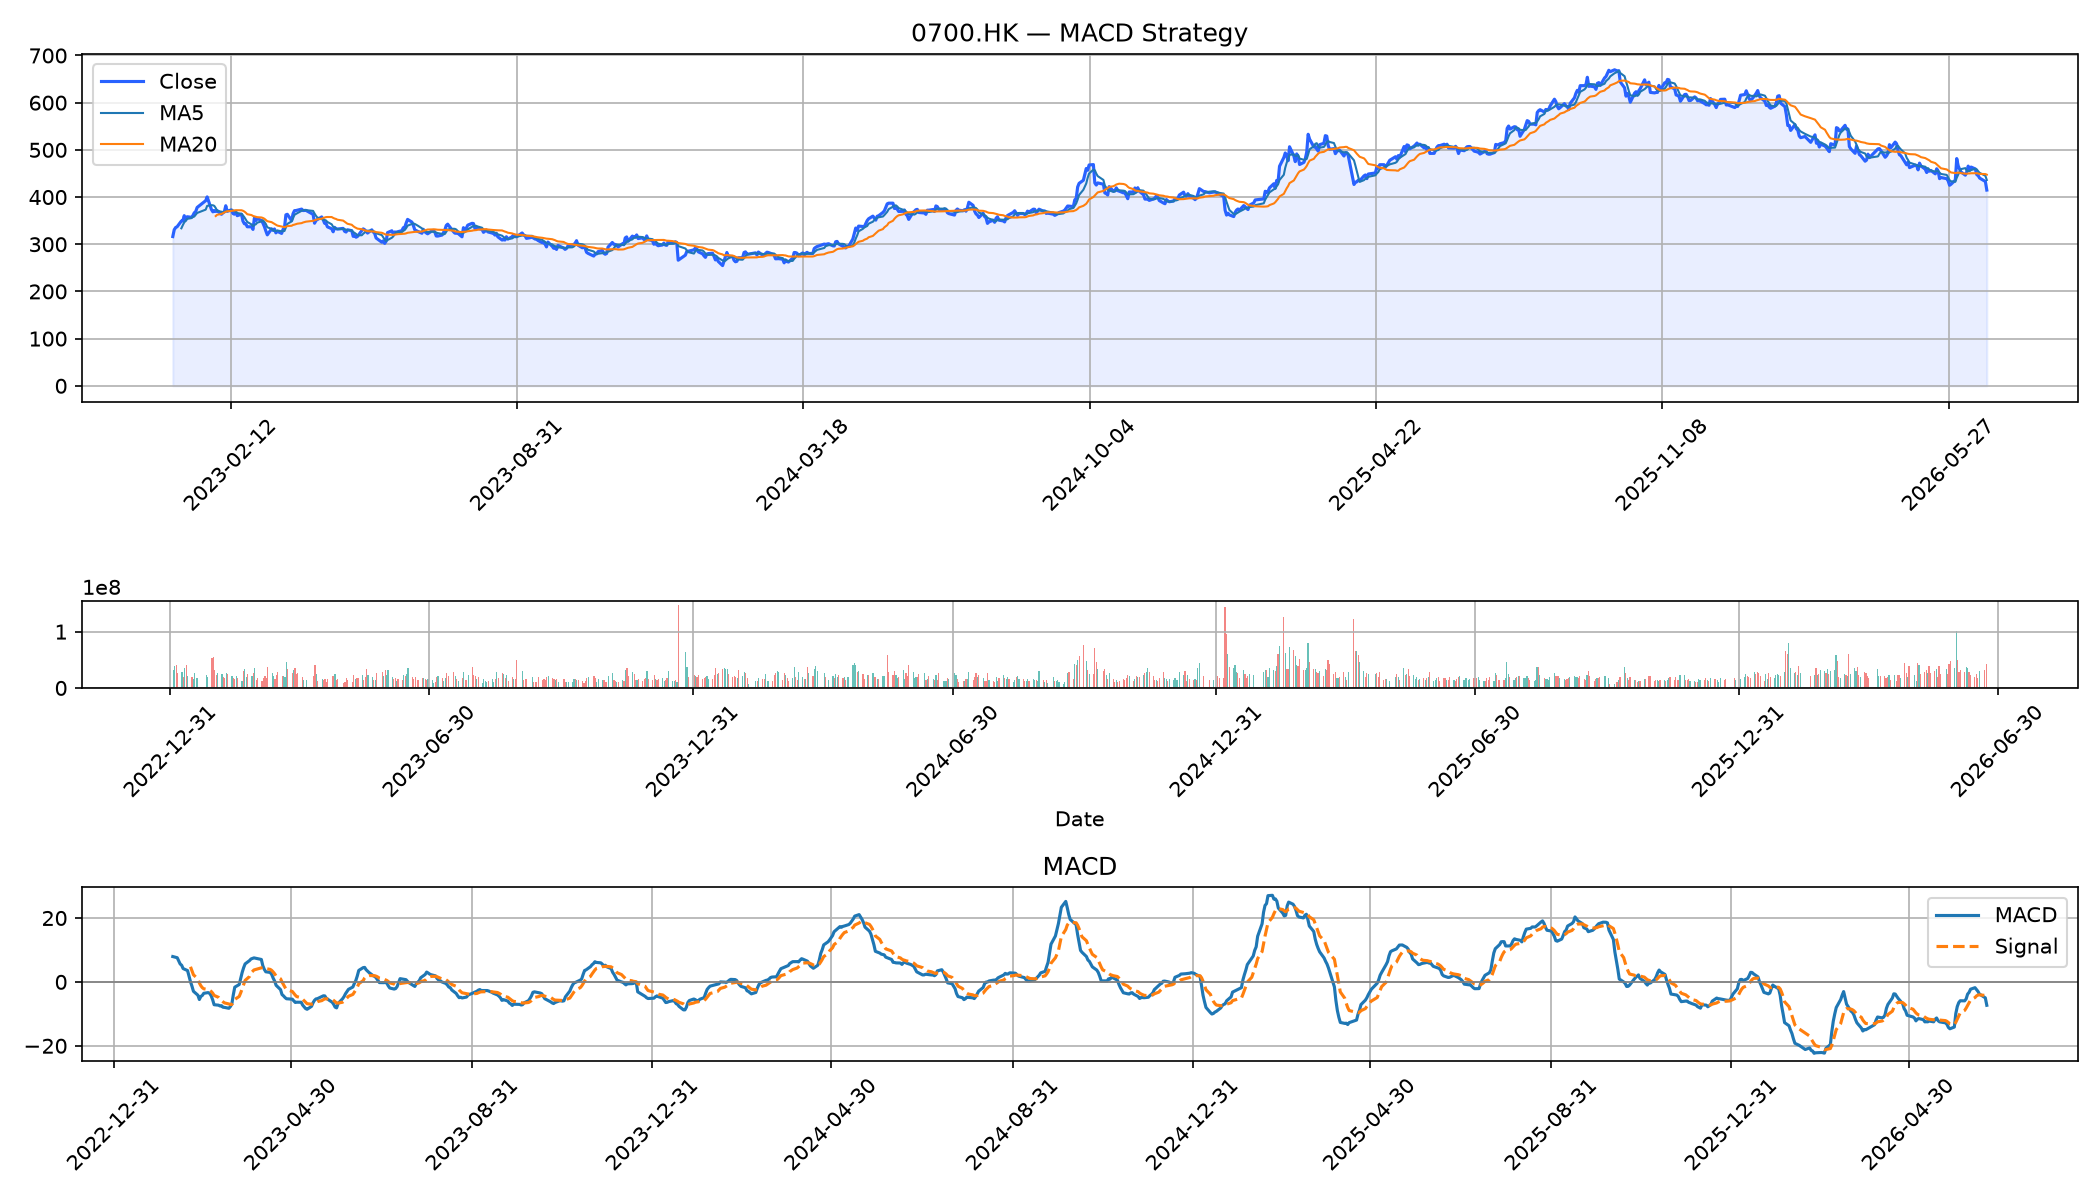
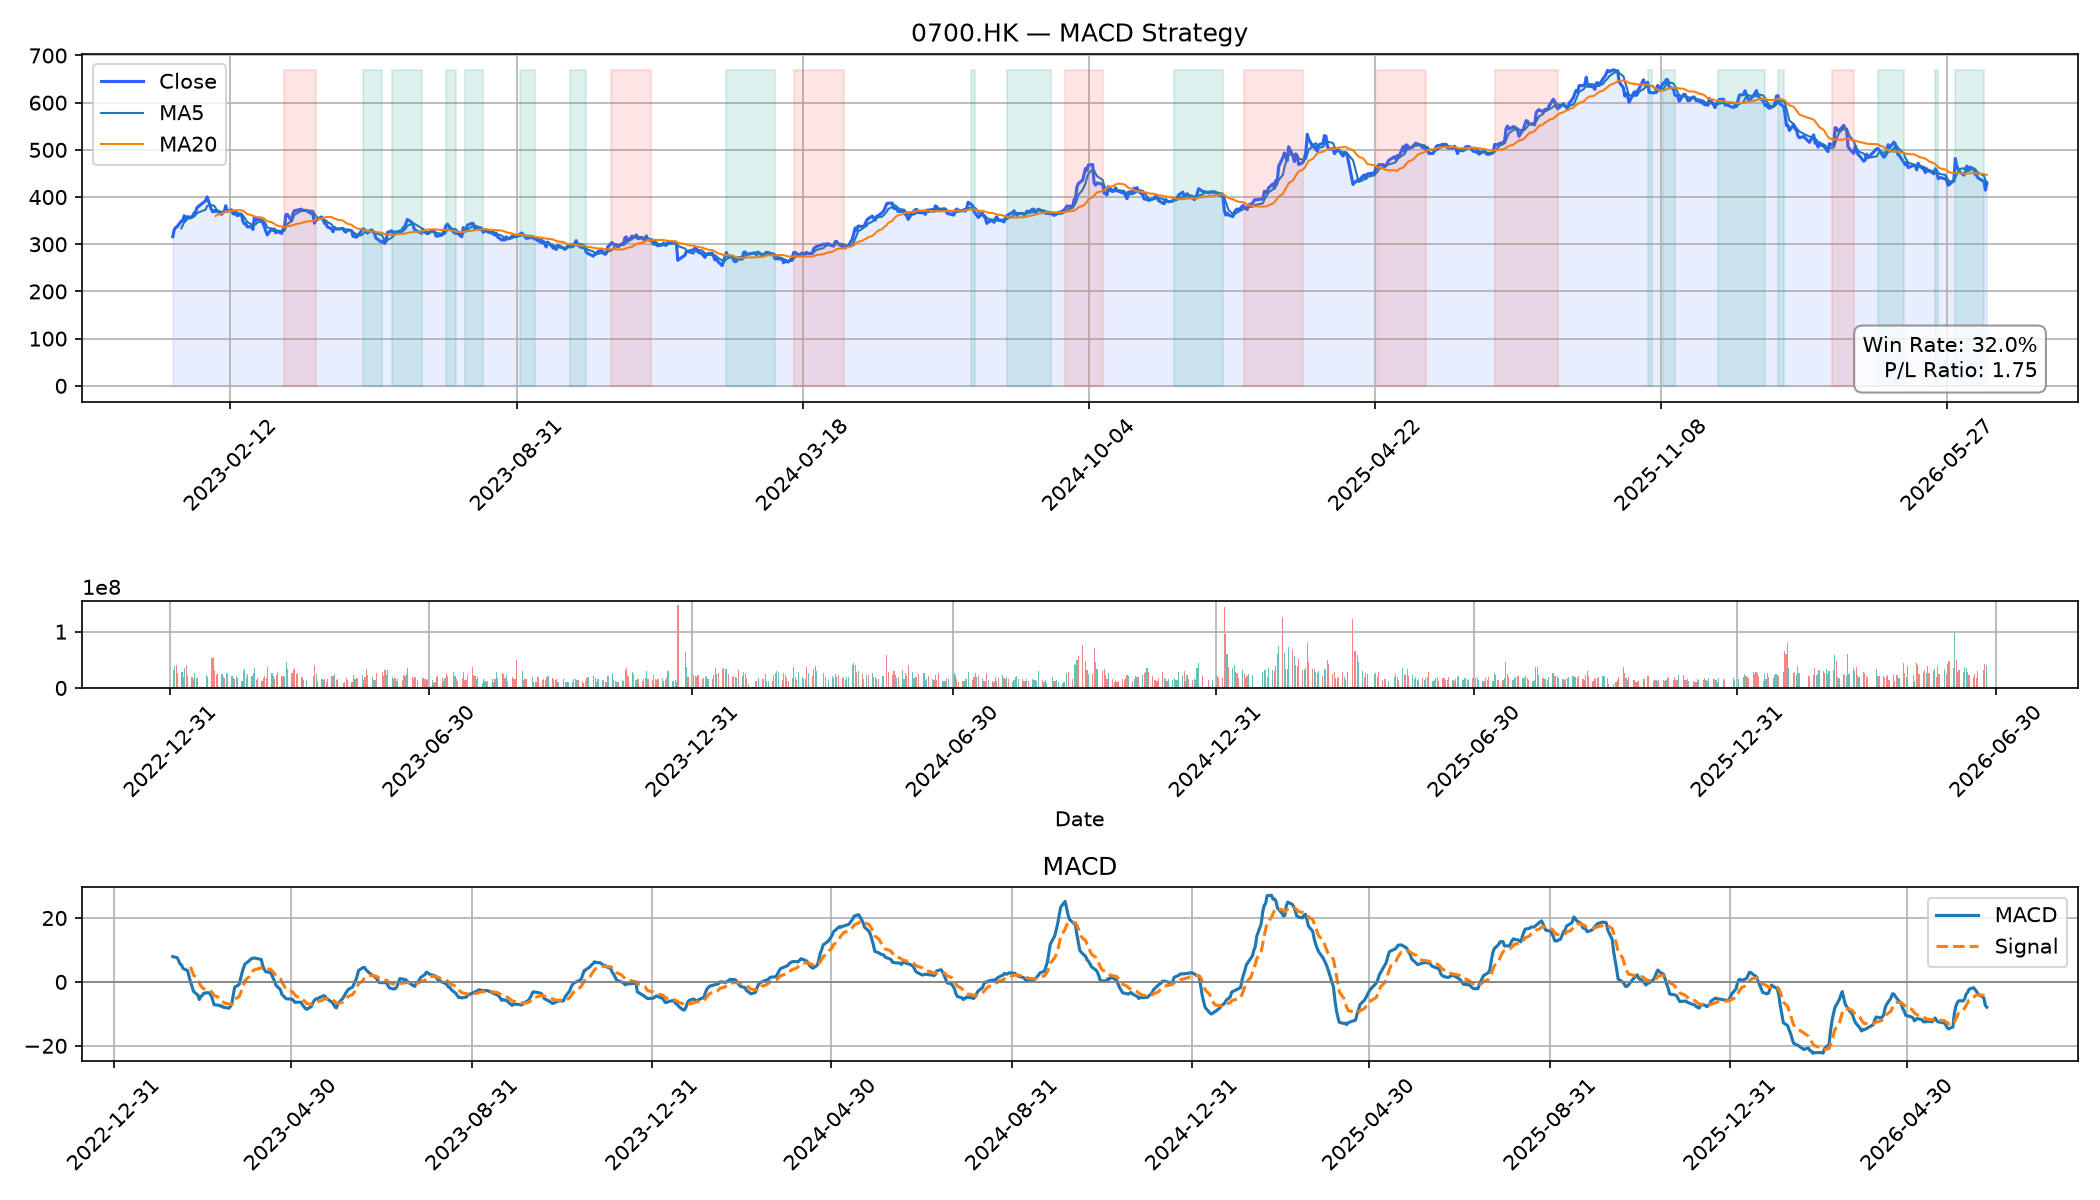
feat: 交易区间透明块改为全高，并标注胜率和盈亏比
- 修改 plotter.py: fill_between 从 y=0 到最高价，盈利红色/亏损绿色
- 在图表右下角添加 Win Rate 和 P/L Ratio 统计框
- 修改 base_strategy.py: completed_trades 增加 buy_price, sell_price
- 修改 engine.py: get_completed_trades 增加对应列

diff --git a/quantinvest/viz/plotter.py b/quantinvest/viz/plotter.py
@@ -3,6 +3,7 @@
 from __future__ import annotations
 
 from pathlib import Path
+from typing import Any
 
 import matplotlib
 matplotlib.use("Agg")  # Non-interactive backend
@@ -18,7 +19,7 @@ def _format_date(ax: plt.Axes) -> None:
     ax.tick_params(axis="x", rotation=45)
 
 
-def compute_indicators(df: pd.DataFrame, strategy: str = "macd", **kwargs) -> dict[str, pd.Series]:
+def compute_indicators(df: pd.DataFrame, strategy: str = "macd", **kwargs: Any) -> dict[str, pd.Series]:
     """Compute common indicators for plotting.
 
     Args:
@@ -70,7 +71,7 @@ def compute_indicators(df: pd.DataFrame, strategy: str = "macd", **kwargs) -> di
     raise ValueError(f"Unknown strategy: {strategy}")
 
 
-def _extract_series(series) -> np.ndarray:
+def _extract_series(series: Any) -> np.ndarray | None:
     """Extract numpy array from backtrader indicator or pandas Series."""
     if hasattr(series, "lines"):
         return np.asarray(series.lines[0].array)
@@ -91,14 +92,18 @@ def plot_kline(
     df: pd.DataFrame,
     title: str = "K-Line Chart",
     indicators: dict | None = None,
+    trade_signals: pd.DataFrame | None = None,
+    completed_trades: pd.DataFrame | None = None,
     output: str | Path | None = None,
 ) -> None:
-    """Plot OHLC candlestick with optional indicator overlays.
+    """Plot OHLC candlestick with optional indicator overlays and trade signals.
 
     Args:
         df: DataFrame with columns date, open, high, low, close, volume
         title: Chart title
         indicators: dict of {name: Series} to overlay on chart
+        trade_signals: DataFrame with columns date, signal, price (optional, legacy)
+        completed_trades: DataFrame with columns buy_date, sell_date, pnl, is_profitable (optional)
         output: File path to save figure (default: show inline)
     """
     # Separate MACD indicators from price indicators
@@ -138,6 +143,101 @@ def plot_kline(
             values = _extract_series(series)
             if values is not None:
                 ax1.plot(x_vals, values, linewidth=1, label=name)
+
+    # Plot trade fill regions if completed_trades provided
+    if completed_trades is not None and not completed_trades.empty:
+        from matplotlib.patches import Patch
+
+        y_min = 0
+        y_max = df["close"].max()
+
+        for _, row in completed_trades.iterrows():
+            buy_date = row["buy_date"]
+            sell_date = row["sell_date"]
+            is_profitable = row["is_profitable"]
+
+            # Convert to datetime for comparison with DataFrame index
+            buy_dt = pd.Timestamp(buy_date)
+            sell_dt = pd.Timestamp(sell_date)
+
+            # Handle timezone-aware index by converting to tz-naive if needed
+            if df.index.tz is not None:
+                buy_dt = buy_dt.tz_localize(df.index.tz)
+                sell_dt = sell_dt.tz_localize(df.index.tz)
+
+            # Draw transparent block from y=0 to y=max across the trade period
+            x_start = mdates.date2num(buy_dt)
+            x_end = mdates.date2num(sell_dt)
+            color = "#ef5350" if is_profitable else "#26a69a"
+            ax1.fill_between(
+                [x_start, x_end],
+                [y_min, y_min],
+                [y_max, y_max],
+                color=color,
+                alpha=0.15,
+                zorder=2,
+            )
+
+        # Build legend with trade region entries
+        legend_elements = [
+            Patch(color="#ef5350", alpha=0.15, label="Profit trade"),
+            Patch(color="#26a69a", alpha=0.15, label="Loss trade"),
+        ]
+        existing_handles, existing_labels = ax1.get_legend_handles_labels()
+        ax1.legend(
+            handles=existing_handles + legend_elements,
+            labels=existing_labels + [e.get_label() for e in legend_elements],
+        )
+
+        # Calculate and display win rate & profit/loss ratio
+        total_trades = len(completed_trades)
+        win_count = completed_trades["is_profitable"].sum()
+        win_rate = win_count / total_trades * 100 if total_trades > 0 else 0
+
+        profits = completed_trades.loc[completed_trades["is_profitable"], "pnl"]
+        losses = completed_trades.loc[~completed_trades["is_profitable"], "pnl"]
+        avg_profit = profits.mean() if len(profits) > 0 else 0
+        avg_loss = abs(losses.mean()) if len(losses) > 0 else 1
+        pl_ratio = avg_profit / avg_loss if avg_loss > 0 else float("inf")
+
+        stats_text = f"Win Rate: {win_rate:.1f}%\nP/L Ratio: {pl_ratio:.2f}"
+        ax1.text(
+            0.98,
+            0.05,
+            stats_text,
+            transform=ax1.transAxes,
+            fontsize=10,
+            verticalalignment="bottom",
+            horizontalalignment="right",
+            bbox=dict(boxstyle="round,pad=0.4", facecolor="white", alpha=0.8, edgecolor="gray"),
+        )
+
+    # Legacy: Plot trade signals if provided (scatter method)
+    elif trade_signals is not None and not trade_signals.empty:
+        buy_signals = trade_signals[trade_signals["signal"] == "BUY"]
+        sell_signals = trade_signals[trade_signals["signal"] == "SELL"]
+
+        # Plot buy signals as green triangles pointing up
+        ax1.scatter(
+            mdates.date2num(buy_signals["date"]),
+            buy_signals["price"],
+            marker="^",
+            color="#26a69a",
+            s=100,
+            zorder=5,
+            label="BUY",
+        )
+
+        # Plot sell signals as red triangles pointing down
+        ax1.scatter(
+            mdates.date2num(sell_signals["date"]),
+            sell_signals["price"],
+            marker="v",
+            color="#ef5350",
+            s=100,
+            zorder=5,
+            label="SELL",
+        )
 
     ax1.set_title(title)
     ax1.legend()

diff --git a/quantinvest/backtest/engine.py b/quantinvest/backtest/engine.py
@@ -23,6 +23,8 @@ class BacktestEngine:
         self.cash = cash
         self.stake = stake
         self._equity_tracker: list[tuple] = []
+        self._trade_signals: list[tuple] = []
+        self._completed_trades: list[tuple] = []
 
         self.cerebro = bt.Cerebro()
         self.cerebro.broker.setcash(cash)
@@ -44,7 +46,13 @@ class BacktestEngine:
 
     def run(self, strategy: Type, **kwargs: Any) -> bt.analyzers.Snapshot:
         """Run the strategy and return analyzers."""
-        self.cerebro.addstrategy(strategy, _equity_tracker=self._equity_tracker, **kwargs)
+        self.cerebro.addstrategy(
+            strategy,
+            _equity_tracker=self._equity_tracker,
+            _trade_signals=self._trade_signals,
+            _completed_trades=self._completed_trades,
+            **kwargs,
+        )
         results = self.cerebro.run()
         return results[0]
 
@@ -54,6 +62,23 @@ class BacktestEngine:
             return pd.Series(dtype=float)
         dates, values = zip(*self._equity_tracker)
         return pd.Series(values, index=pd.Index(dates))
+
+    def get_trade_signals(self) -> pd.DataFrame:
+        """Return trade signals as a DataFrame with columns: date, signal, price."""
+        if not self._trade_signals:
+            return pd.DataFrame(columns=["date", "signal", "price"])
+        return pd.DataFrame(self._trade_signals, columns=["date", "signal", "price"])
+
+    def get_completed_trades(self) -> pd.DataFrame:
+        """Return completed trades as a DataFrame.
+
+        Columns: buy_date, sell_date, buy_price, sell_price, pnl, is_profitable
+        """
+        if not self._completed_trades:
+            return pd.DataFrame(columns=["buy_date", "sell_date", "buy_price", "sell_price", "pnl", "is_profitable"])
+        return pd.DataFrame(
+            self._completed_trades, columns=["buy_date", "sell_date", "buy_price", "sell_price", "pnl", "is_profitable"]
+        )
 
     def get_report(self) -> str:
         """Return a text summary of portfolio performance."""

diff --git a/quantinvest/strategy/base_strategy.py b/quantinvest/strategy/base_strategy.py
@@ -8,14 +8,19 @@ import backtrader as bt
 class BaseStrategy(bt.Strategy):
     """Base strategy that accepts a pre-loaded DataFrame."""
 
-    params = dict(_equity_tracker=None)
+    params = dict(_equity_tracker=None, _trade_signals=None, _completed_trades=None)
 
     def __init__(self) -> None:
         self.data = self.datas[0]
         self.order: bt.BrokerOrder | None = None
+        self._last_buy_date: object = None
+        self._last_buy_price: float = 0.0
+        self._last_sell_price: float = 0.0
 
     def start(self) -> None:
         self.p._equity_tracker.clear()
+        self.p._trade_signals.clear()
+        self.p._completed_trades.clear()
         self.log("Strategy started")
 
     def log(self, txt: str) -> None:
@@ -33,12 +38,23 @@ class BaseStrategy(bt.Strategy):
 
     def notify_order(self, order: bt.BrokerOrder) -> None:
         if order.status == order.Completed:
+            dt = self.data.datetime.date(0)
+            price = order.executed.price
             if order.isbuy():
-                self.log(f"BUY executed @ {order.executed.price:.2f}")
+                self._last_buy_date = dt
+                self._last_buy_price = price
+                self.log(f"BUY executed @ {price:.2f}")
+                self.p._trade_signals.append((dt, "BUY", price))
             else:
-                self.log(f"SELL executed @ {order.executed.price:.2f}")
+                self._last_sell_price = price
+                self.log(f"SELL executed @ {price:.2f}")
+                self.p._trade_signals.append((dt, "SELL", price))
             self.order = None
 
     def notify_trade(self, trade: bt.Trade) -> None:
         if trade.isclosed:
             self.log(f"PnL gross {trade.pnl:.2f}, net {trade.pnlcomm:.2f}")
+            # Record completed trade: (buy_date, sell_date, buy_price, sell_price, pnl, is_profitable)
+            self.p._completed_trades.append(
+                (self._last_buy_date, self.data.datetime.date(0), self._last_buy_price, self._last_sell_price, trade.pnl, trade.pnl > 0)
+            )

diff --git a/examples/run_backtest.py b/examples/run_backtest.py
@@ -41,11 +41,14 @@ def main() -> None:
 
     print(engine.get_report())
 
+    # Get completed trades for visualization
+    completed_trades = engine.get_completed_trades()
+
     # Generate charts
     output_dir = Path(__file__).parent.parent / "charts"
     output_dir.mkdir(exist_ok=True)
 
-    # 1. K-line with indicators (MA + MACD)
+    # 1. K-line with indicators (MA + MACD) and trade regions
     df_copy = df.copy()
     indicators = {
         "MA5": df_copy["close"].rolling(5).mean(),
@@ -57,6 +60,7 @@ def main() -> None:
         df_copy,
         title=f"{symbol} — MACD Strategy",
         indicators=indicators,
+        completed_trades=completed_trades,
         output=output_dir / f"kline_{symbol.replace('.', '_')}.png",
     )
 